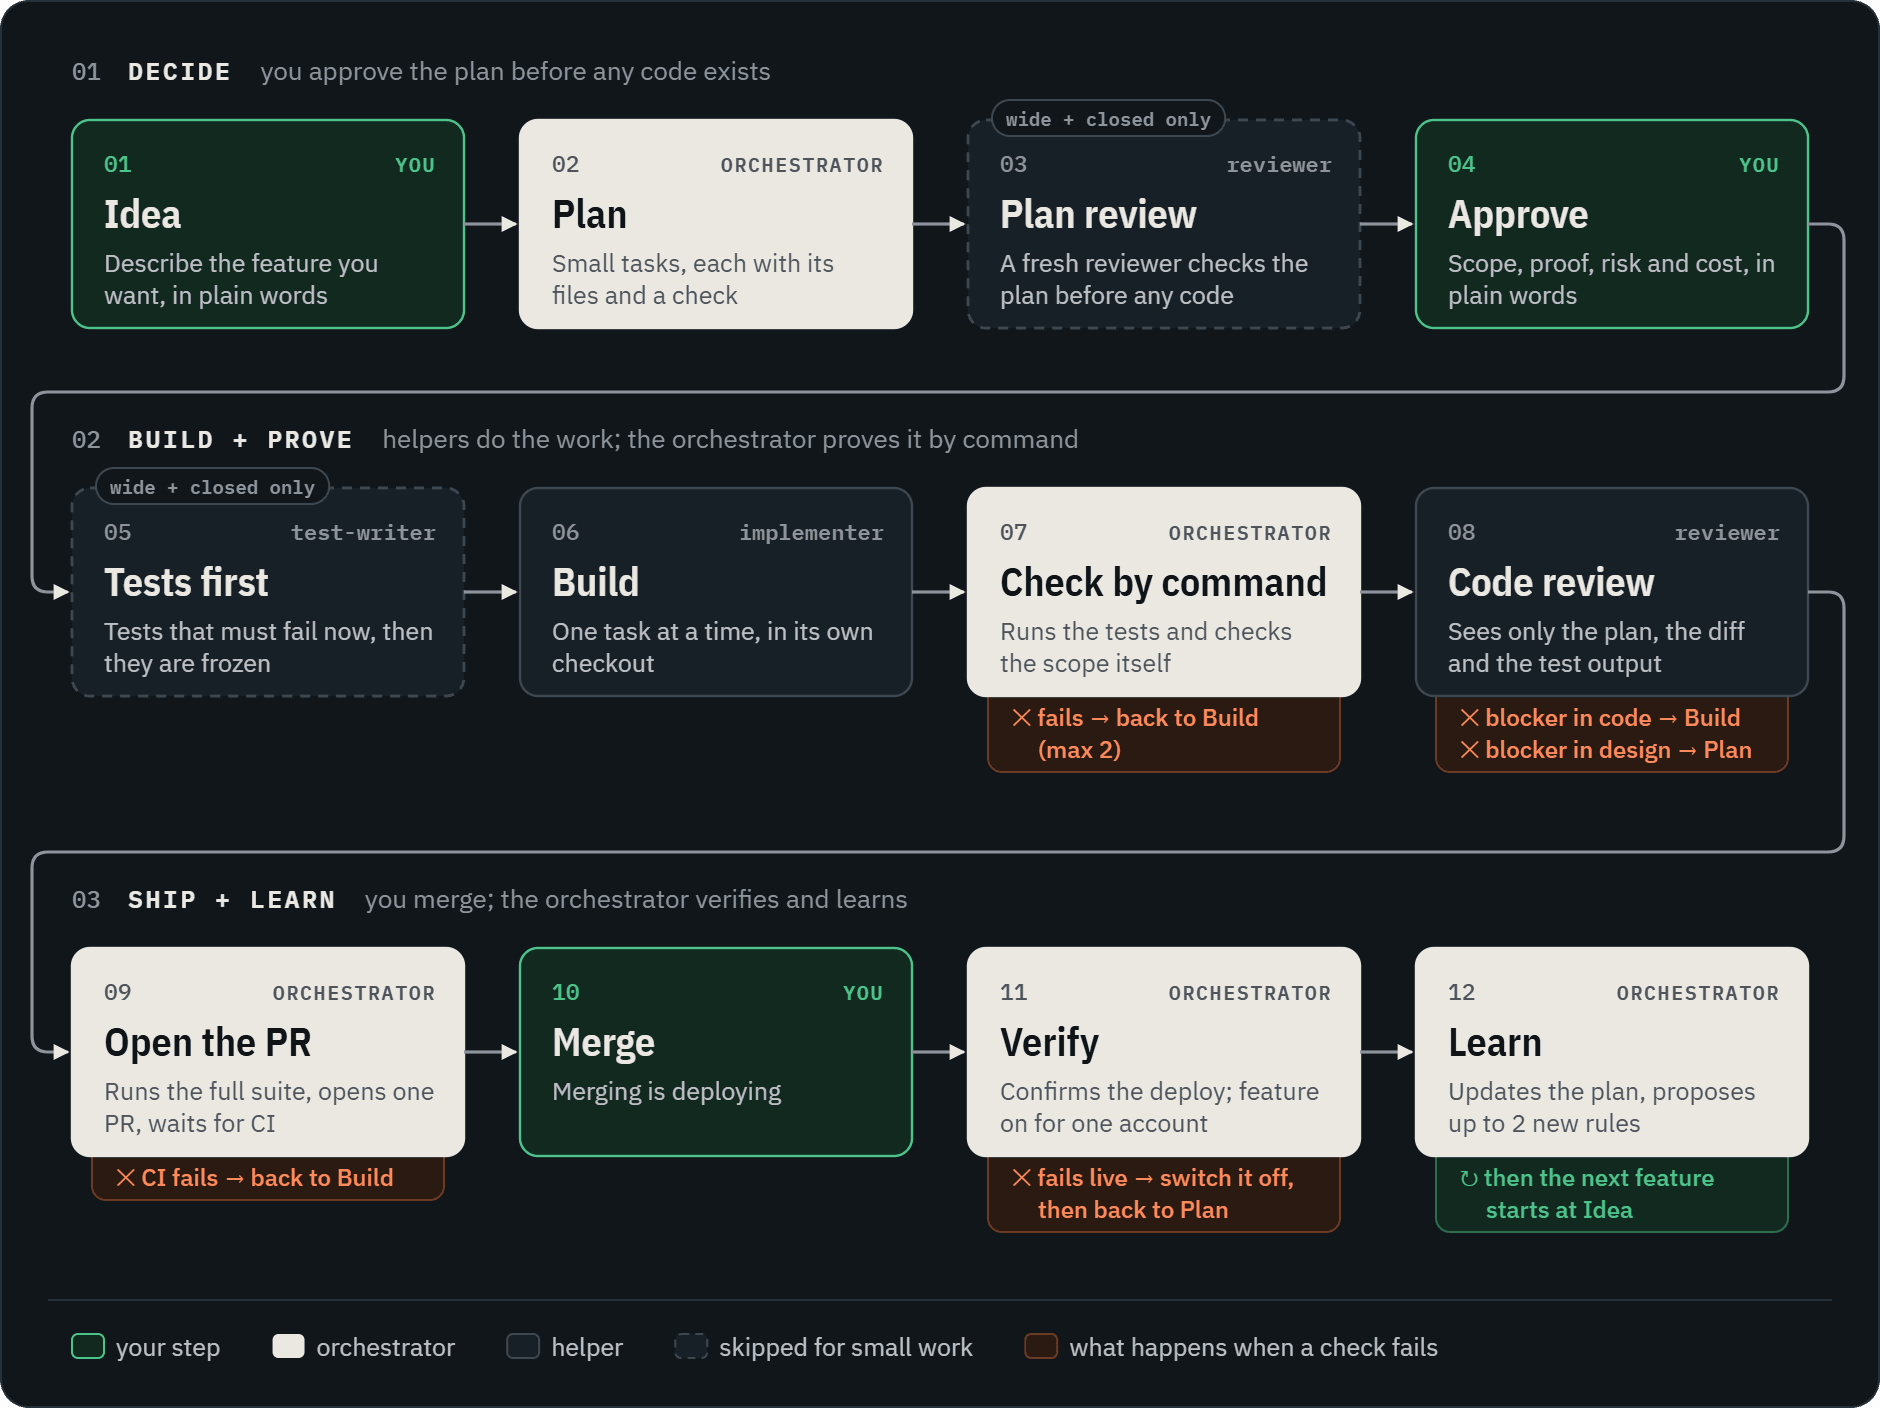
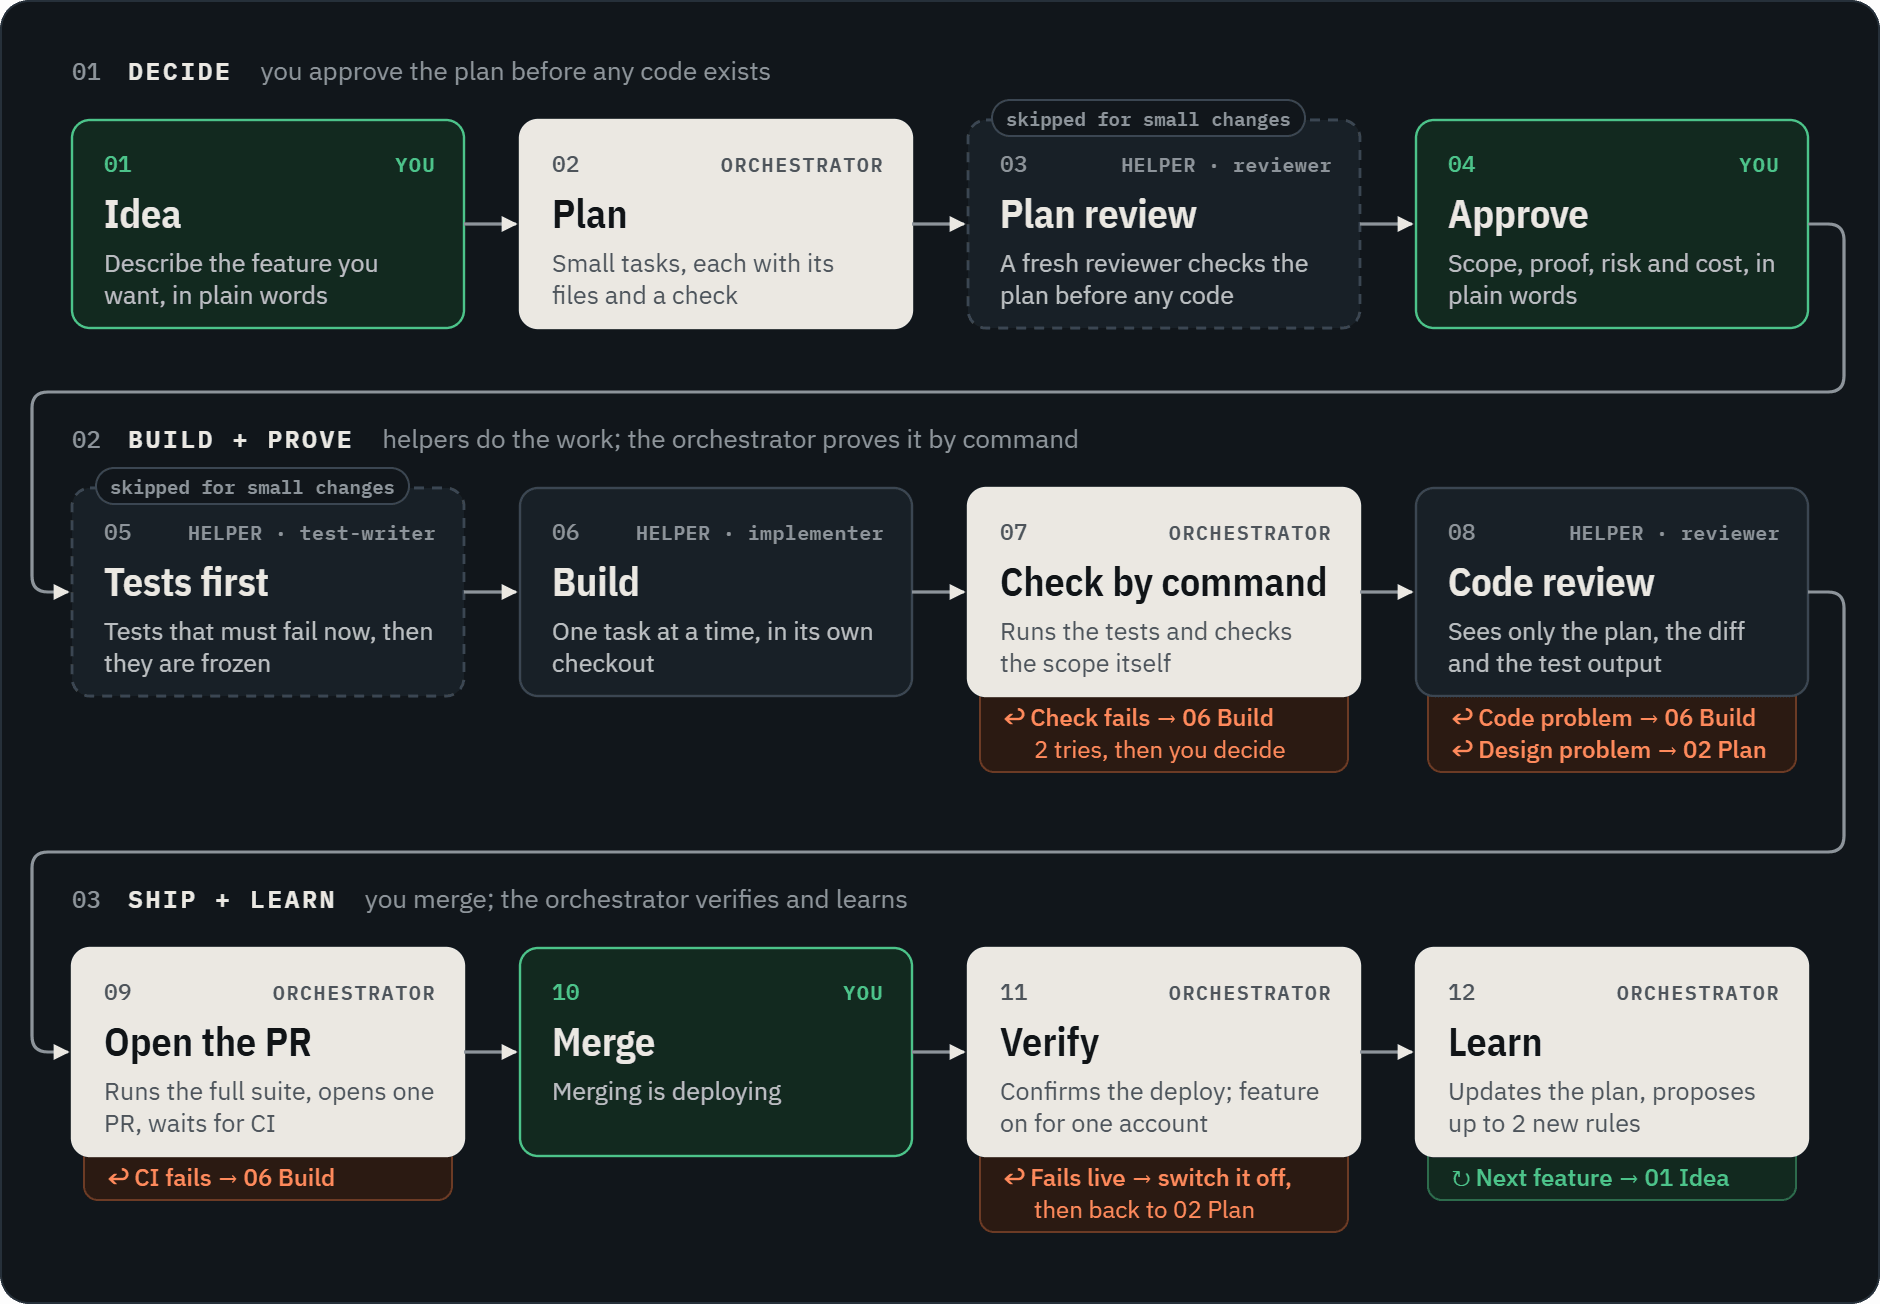
Make the loop diagram explain itself
- no legend: each box says who does it (YOU, ORCHESTRATOR, HELPER · name)
- failure notes are short sentences with step numbers (CI fails → 06 Build)
- the dashed steps say 'skipped for small changes' in plain words

diff --git a/docs/assets/diagrams.html b/docs/assets/diagrams.html
@@ -125,14 +125,14 @@ function drawLoop() {
     { title: 'BUILD + PROVE', note: 'helpers do the work; the orchestrator proves it by command', steps: [
       { who: 'help', agent: 'test-writer', opt: true, name: 'Tests first', sub: 'Tests that must fail now, then they are frozen' },
       { who: 'help', agent: 'implementer', name: 'Build', sub: 'One task at a time, in its own checkout' },
-      { who: 'orch', name: 'Check by command', sub: 'Runs the tests and checks the scope itself', fail: ['fails → back to Build (max 2)'] },
-      { who: 'help', agent: 'reviewer', name: 'Code review', sub: 'Sees only the plan, the diff and the test output', fail: ['blocker in code → Build', 'blocker in design → Plan'] },
+      { who: 'orch', name: 'Check by command', sub: 'Runs the tests and checks the scope itself', fail: [['Check fails → 06 Build', '2 tries, then you decide']] },
+      { who: 'help', agent: 'reviewer', name: 'Code review', sub: 'Sees only the plan, the diff and the test output', fail: [['Code problem → 06 Build'], ['Design problem → 02 Plan']] },
     ] },
     { title: 'SHIP + LEARN', note: 'you merge; the orchestrator verifies and learns', steps: [
-      { who: 'orch', name: 'Open the PR', sub: 'Runs the full suite, opens one PR, waits for CI', fail: ['CI fails → back to Build'] },
+      { who: 'orch', name: 'Open the PR', sub: 'Runs the full suite, opens one PR, waits for CI', fail: [['CI fails → 06 Build']] },
       { who: 'you', name: 'Merge', sub: 'Merging is deploying' },
-      { who: 'orch', name: 'Verify', sub: 'Confirms the deploy; feature on for one account', fail: ['fails live → switch it off, then back to Plan'] },
-      { who: 'orch', name: 'Learn', sub: 'Updates the plan, proposes up to 2 new rules', next: 'then the next feature starts at Idea' },
+      { who: 'orch', name: 'Verify', sub: 'Confirms the deploy; feature on for one account', fail: [['Fails live → switch it off,', 'then back to 02 Plan']] },
+      { who: 'orch', name: 'Learn', sub: 'Updates the plan, proposes up to 2 new rules', next: ['Next feature → 01 Idea'] },
     ] },
   ];
 
@@ -162,14 +162,17 @@ function drawLoop() {
 
       // Failure note under the box (drawn first so the box edge sits on top)
       let tabH = 0;
-      const tabX = x + 10, tabW = BW - 20;
+      const tabX = x + 6, tabW = BW - 12;
       if (st.fail || st.next) {
         const g = el(s, 'g');
         const bg = el(g, 'rect', { x: tabX, y: top + BH - 8, width: tabW, height: 10, rx: 7, fill: st.next ? C('go-bg') : C('warn-bg'), stroke: st.next ? C('go-line') : C('warn-line') });
         let ly = top + BH + 15, lines = 0;
-        for (const f of st.fail || [st.next]) {
-          const k = wrapText(g, tabX + 12, ly, (st.next ? '↻ ' : '✕ ') + f, tabW - 24, { size: 12, weight: 500, fill: st.next ? C('go') : C('warn'), lh: 16, indent: 13 });
-          ly += k * 16; lines += k;
+        for (const item of st.fail || [st.next]) {
+          item.forEach((line, j) => {
+            const t = txt(g, tabX + 12 + (j ? 15 : 0), ly, (j ? '' : st.next ? '↻ ' : '↩ ') + line, { size: 12, weight: j ? 400 : 500, fill: st.next ? C('go') : C('warn') });
+            warnOverflow(t, tabX + tabW - 8, st.name + ' note');
+            ly += 16; lines++;
+          });
         }
         tabH = 14 + lines * 16;
         bg.setAttribute('height', tabH);
@@ -177,10 +180,10 @@ function drawLoop() {
       }
 
       el(s, 'rect', { x, y: top, width: BW, height: BH, rx: 9, fill, stroke, 'stroke-width': st.opt ? 1.4 : 1.2, ...(st.opt ? { 'stroke-dasharray': '5 4' } : {}) });
-      if (st.opt) chip(s, x + 12, top - 10, 'wide + closed only', { size: 9.5, h: 18, pad: 7, bg: C('board'), stroke: C('rule-2'), fill: C('ink-3'), weight: 600 });
+      if (st.opt) chip(s, x + 12, top - 10, 'skipped for small changes', { size: 9.5, h: 18, pad: 7, bg: C('board'), stroke: C('rule-2'), fill: C('ink-3'), weight: 600 });
       txt(s, x + 16, top + 26, String(n).padStart(2, '0'), { cls: 'mono', size: 11.5, weight: 500, fill: ink3 });
-      const who = st.who === 'you' ? 'YOU' : st.who === 'orch' ? 'ORCHESTRATOR' : st.agent;
-      txt(s, x + BW - 14, top + 26, who, { cls: 'mono', size: st.who === 'help' ? 11 : 10, weight: 600, anchor: 'end', ls: st.who === 'help' ? 0 : 0.8, fill: st.who === 'help' ? C('ink-3') : ink3 });
+      const who = st.who === 'you' ? 'YOU' : st.who === 'orch' ? 'ORCHESTRATOR' : `HELPER · ${st.agent}`;
+      txt(s, x + BW - 14, top + 26, who, { cls: 'mono', size: 10, weight: 600, anchor: 'end', ls: st.who === 'help' ? 0.2 : 0.8, fill: st.who === 'help' ? C('ink-3') : ink3 });
       txt(s, x + 16, top + 54, st.name, { cls: 'cond', size: 20, weight: 600, fill: ink });
       const k = wrapText(s, x + 16, top + 76, st.sub, BW - 30, { size: 12.5, fill: ink2, lh: 16 });
       if (k > 2) console.warn('sub wraps to', k, 'lines:', st.name);
@@ -191,19 +194,8 @@ function drawLoop() {
     y = top + BH + tabMax + 46;
   });
 
-  // Legend
-  const ly = y + 4;
-  el(s, 'line', { x1: 24, x2: W - 24, y1: ly - 24, y2: ly - 24, stroke: C('rule') });
-  let x = BX[0];
-  const item = (draw, label) => { draw(x); x += 22; const t = txt(s, x, ly + 4, label, { size: 12.5, fill: C('ink-2') }); x += t.getComputedTextLength() + 26; };
-  item((x0) => el(s, 'rect', { x: x0, y: ly - 7, width: 16, height: 12, rx: 3, fill: C('go-bg'), stroke: C('go') }), 'your step');
-  item((x0) => el(s, 'rect', { x: x0, y: ly - 7, width: 16, height: 12, rx: 3, fill: C('plate') }), 'orchestrator');
-  item((x0) => el(s, 'rect', { x: x0, y: ly - 7, width: 16, height: 12, rx: 3, fill: C('surface'), stroke: C('rule-2') }), 'helper');
-  item((x0) => el(s, 'rect', { x: x0, y: ly - 7, width: 16, height: 12, rx: 3, fill: C('surface'), stroke: C('rule-2'), 'stroke-dasharray': '4 3' }), 'skipped for small work');
-  item((x0) => el(s, 'rect', { x: x0, y: ly - 7, width: 16, height: 12, rx: 3, fill: C('warn-bg'), stroke: C('warn-line') }), 'what happens when a check fails');
-
   // Fit the canvas to the content
-  const H = ly + 30;
+  const H = y - 18;
   s.setAttribute('viewBox', `0 0 ${W} ${H}`); s.setAttribute('height', H);
   s.querySelector(':scope > rect').setAttribute('height', H - 1);
 }
